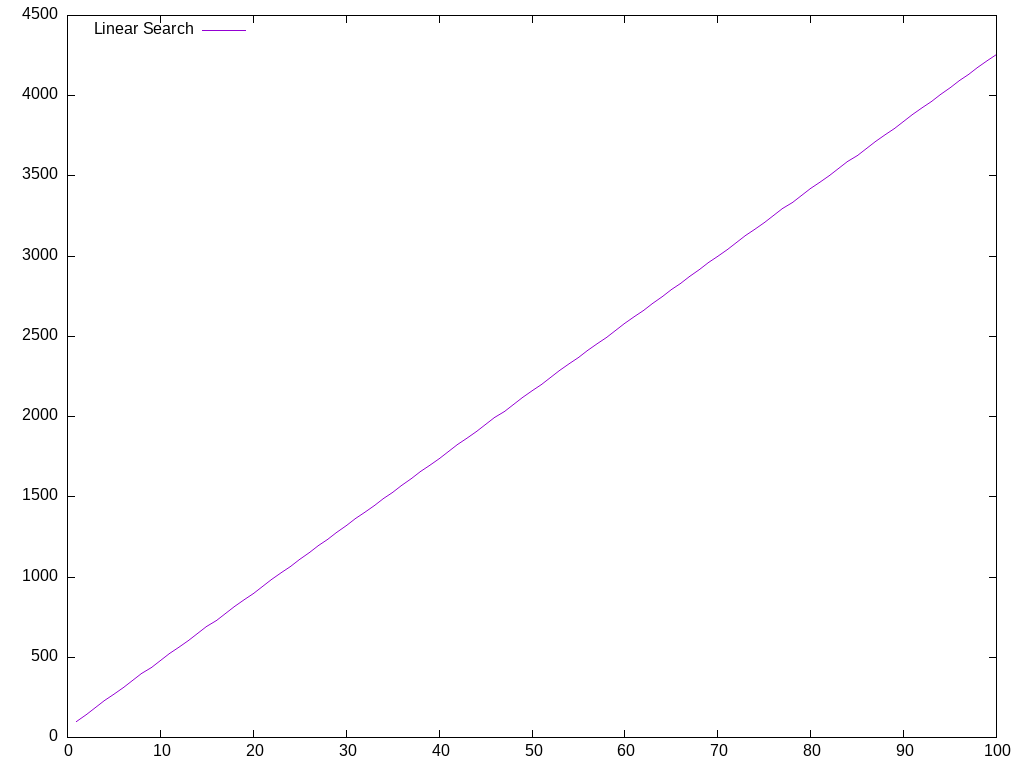
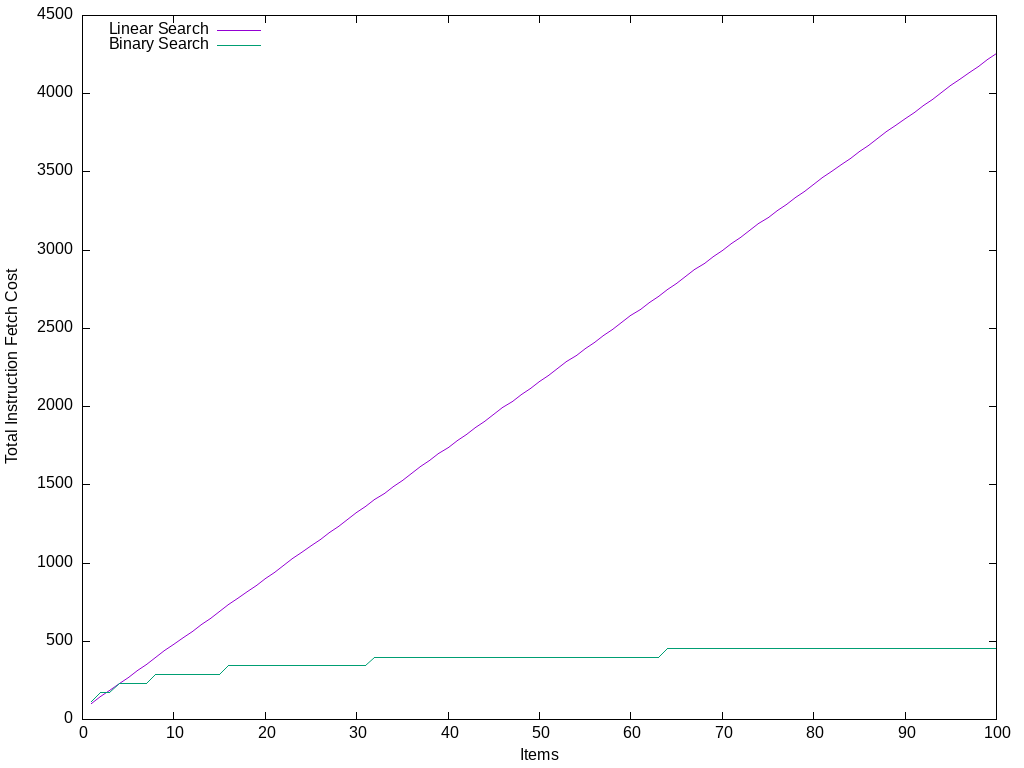
Implement binary search

diff --git a/src/test/unit/binary-search-test.c b/src/test/unit/binary-search-test.c
@@ -1,0 +1,142 @@
+#include "greatest.h"
+
+#include "binary-search.h"
+
+static const int              ITEMS[]              = { 0, 1, 2, 3, 4, 5, 6, 7, 8, 9 };
+static const int *            ITEMS_INVALID        = NULL;
+static const size_t           ITEMS_COUNT          = 10;
+static const int *            ITEM_INVALID         = NULL;
+static const int              ITEM_FOUND           = 3;
+static const int              ITEM_NOT_FOUND       = 10;
+static const size_t           ITEM_SIZE            = sizeof(int);
+static const size_t           ITEM_SIZE_INVALID    = 0;
+static const ordering_compare ITEM_COMPARE_INVALID = NULL;
+
+#pragma GCC diagnostic push
+#pragma GCC diagnostic ignored "-Wpedantic"
+static const int              ITEMS_EMPTY[0]       = { };
+static const size_t           ITEMS_EMPTY_COUNT    = 0;
+#pragma GCC diagnostic pop
+
+#include <stdio.h>
+
+ordering item_compare(const void *item_expected, const void *item_current) {
+    const int *item_expected_int = (const int *)item_expected;
+    const int *item_current_int  = (const int *)item_current;
+
+    printf("%d == %d\n", *item_expected_int, *item_current_int);
+
+    if (*item_expected_int == *item_current_int) {
+        return EQ;
+    }
+
+    if (*item_expected_int > *item_current_int) {
+        return GT;
+    }
+
+    return LT;
+}
+
+TEST binary_search__find____items_is_invalid___status_is_items_invalid_error_and_item_index_is_not_assigned(void) {
+    size_t item_index = ITEM_INDEX_UNDEFINED;
+
+    status status = binary_search__find(ITEMS_INVALID, ITEMS_COUNT, &ITEM_FOUND, ITEM_SIZE, &item_compare, &item_index);
+
+    ASSERT_EQ(ITEMS_INVALID_ERROR, status);
+    ASSERT_EQ(ITEM_INDEX_UNDEFINED, item_index);
+    PASS();
+}
+
+TEST binary_search__find____item_is_invalid___status_is_item_invalid_error_and_item_index_is_not_assigned(void) {
+    size_t item_index = ITEM_INDEX_UNDEFINED;
+
+    status status = binary_search__find(ITEMS, ITEMS_COUNT, ITEM_INVALID, ITEM_SIZE, &item_compare, &item_index);
+
+    ASSERT_EQ(ITEM_INVALID_ERROR, status);
+    ASSERT_EQ(ITEM_INDEX_UNDEFINED, item_index);
+    PASS();
+}
+
+TEST binary_search__find____item_size_is_invalid___status_is_item_size_invalid_error_and_item_index_is_not_assigned(void) {
+    size_t item_index = ITEM_INDEX_UNDEFINED;
+
+    status status = binary_search__find(ITEMS, ITEMS_COUNT, &ITEM_FOUND, ITEM_SIZE_INVALID, &item_compare, &item_index);
+
+    ASSERT_EQ(ITEM_SIZE_INVALID_ERROR, status);
+    ASSERT_EQ(ITEM_INDEX_UNDEFINED, item_index);
+    PASS();
+}
+
+TEST binary_search__find____item_compare_is_invalid___status_is_item_compare_invalid_error_and_item_index_is_not_assigned(void) {
+    size_t item_index = ITEM_INDEX_UNDEFINED;
+
+    status status = binary_search__find(ITEMS, ITEMS_COUNT, &ITEM_FOUND, ITEM_SIZE, ITEM_COMPARE_INVALID, &item_index);
+
+    ASSERT_EQ(ITEM_COMPARE_INVALID_ERROR, status);
+    ASSERT_EQ(ITEM_INDEX_UNDEFINED, item_index);
+    PASS();
+}
+
+TEST binary_search__find____item_index_is_invalid___status_is_item_index_invalid_error_and_item_index_is_not_assigned(void) {
+    size_t *item_index = NULL;
+
+    status status = binary_search__find(ITEMS, ITEMS_COUNT, &ITEM_FOUND, ITEM_SIZE, &item_compare, item_index);
+
+    ASSERT_EQ(ITEM_INDEX_INVALID_ERROR, status);
+    ASSERT_EQ(NULL, item_index);
+    PASS();
+}
+
+TEST binary_search__find____items_is_empty___status_is_item_not_found_error_and_item_index_is_not_assigned(void) {
+    size_t item_index = ITEM_INDEX_UNDEFINED;
+
+    status status = binary_search__find(ITEMS_EMPTY, ITEMS_EMPTY_COUNT, &ITEM_FOUND, ITEM_SIZE, &item_compare, &item_index);
+
+    ASSERT_EQ(ITEM_NOT_FOUND_ERROR, status);
+    ASSERT_EQ(ITEM_INDEX_UNDEFINED, item_index);
+    PASS();
+}
+
+TEST binary_search__find____item_is_found___status_is_success_and_assigns_item_index(void) {
+    for (int i = 0; i < ITEMS_COUNT; i++) {
+        size_t item_index = ITEM_INDEX_UNDEFINED;
+
+        status status = binary_search__find(ITEMS, ITEMS_COUNT, &ITEMS[i], ITEM_SIZE, &item_compare, &item_index);
+
+        ASSERT_EQ(status, SUCCESS);
+        ASSERT_EQ(i, item_index);
+    }
+
+    PASS();
+}
+
+TEST binary_search__find____item_is_not_found___status_is_item_not_found_error_and_item_index_is_not_assigned(void) {
+    size_t item_index = ITEM_INDEX_UNDEFINED;
+
+    status status = binary_search__find(ITEMS, ITEMS_COUNT, &ITEM_NOT_FOUND, ITEM_SIZE, &item_compare, &item_index);
+
+    ASSERT_EQ(ITEM_NOT_FOUND_ERROR, status);
+    ASSERT_EQ(ITEM_INDEX_UNDEFINED, item_index);
+    PASS();
+}
+
+SUITE(binary_search_suite) {
+    RUN_TEST(binary_search__find____items_is_invalid___status_is_items_invalid_error_and_item_index_is_not_assigned);
+    RUN_TEST(binary_search__find____items_is_empty___status_is_item_not_found_error_and_item_index_is_not_assigned);
+    RUN_TEST(binary_search__find____item_is_invalid___status_is_item_invalid_error_and_item_index_is_not_assigned);
+    RUN_TEST(binary_search__find____item_size_is_invalid___status_is_item_size_invalid_error_and_item_index_is_not_assigned);
+    RUN_TEST(binary_search__find____item_compare_is_invalid___status_is_item_compare_invalid_error_and_item_index_is_not_assigned);
+    RUN_TEST(binary_search__find____item_index_is_invalid___status_is_item_index_invalid_error_and_item_index_is_not_assigned);
+    RUN_TEST(binary_search__find____item_is_found___status_is_success_and_assigns_item_index);
+    RUN_TEST(binary_search__find____item_is_not_found___status_is_item_not_found_error_and_item_index_is_not_assigned);
+}
+
+GREATEST_MAIN_DEFS();
+
+int main(int argc, char **argv) {
+    GREATEST_MAIN_BEGIN();
+
+    RUN_SUITE(binary_search_suite);
+
+    GREATEST_MAIN_END();
+}

diff --git a/src/main/binary-search.c b/src/main/binary-search.c
@@ -1,0 +1,67 @@
+#include "binary-search.h"
+
+#include <stddef.h>
+#include <stdint.h>
+#include <stdbool.h>
+
+status binary_search__find(
+    const void *           items,
+    const size_t           items_count,
+    const void *           item,
+    const size_t           item_size,
+    const ordering_compare item_compare,
+    size_t *               item_index
+) {
+    if (items == NULL) {
+        return ITEMS_INVALID_ERROR;
+    }
+
+    if (item == NULL) {
+        return ITEM_INVALID_ERROR;
+    }
+
+    if (item_size == 0) {
+        return ITEM_SIZE_INVALID_ERROR;
+    }
+
+    if (item_compare == NULL) {
+        return ITEM_COMPARE_INVALID_ERROR;
+    }
+
+    if (item_index == NULL) {
+        return ITEM_INDEX_INVALID_ERROR;
+    }
+
+    if (items_count == 0) {
+        return ITEM_NOT_FOUND_ERROR;
+    }
+
+    const uint8_t *items_octets = (const uint8_t *)items;
+
+    size_t item_index_min = 0;
+    size_t item_index_max = items_count - 1;
+
+    while (item_index_min <= item_index_max) {
+        const size_t item_index_mid = item_index_min + ((item_index_max - item_index_min) / 2);
+
+        const void *item_mid = items_octets + item_size * item_index_mid;
+
+        const ordering ordering = item_compare(item, item_mid);
+
+        if (ordering == EQ) {
+            *item_index = item_index_mid;
+
+            return SUCCESS;
+        }
+
+        if (ordering == GT) {
+            item_index_min = item_index_mid + 1;
+        }
+
+        if (ordering == LT) {
+            item_index_max = item_index_mid - 1;
+        }
+    }
+
+    return ITEM_NOT_FOUND_ERROR;
+}

diff --git a/src/test/perf/binary-search-test.c b/src/test/perf/binary-search-test.c
@@ -1,0 +1,50 @@
+#include <stdlib.h>
+#include <valgrind/callgrind.h>
+#include <assert.h>
+
+#include "binary-search.h"
+
+ordering item_compare(const void *item_expected, const void *item_current) {
+    const long int *item_expected_long_int = (const long int *)item_expected;
+    const long int *item_current_long_int  = (const long int *)item_current;
+
+    if (*item_expected_long_int == *item_current_long_int) {
+        return EQ;
+    }
+
+    if (*item_expected_long_int > *item_current_long_int) {
+        return GT;
+    }
+
+    return LT;
+}
+
+int main(__attribute__((unused)) int argc, char **argv) {
+    long int   items_count = strtol(argv[1], NULL, 10);
+    size_t     item_size   = sizeof(long int);
+    long int * items       = malloc(items_count * item_size);
+    long int   item        = items_count - 1;
+    size_t     item_index  = 0;
+
+    for (long int i = 0; i < items_count; i++) {
+        items[i] = i;
+    }
+
+    CALLGRIND_START_INSTRUMENTATION;
+    CALLGRIND_TOGGLE_COLLECT;
+
+    status status = binary_search__find(
+            items,
+            items_count,
+            &item,
+            item_size,
+            &item_compare,
+            &item_index);
+
+    assert(status == SUCCESS);
+
+    CALLGRIND_TOGGLE_COLLECT;
+    CALLGRIND_STOP_INSTRUMENTATION;
+
+    free(items);
+}

diff --git a/src/main/binary-search.h b/src/main/binary-search.h
@@ -1,0 +1,27 @@
+#ifndef _BINARY_SEARCH_
+#define _BINARY_SEARCH_
+
+#include <stdlib.h>
+
+#include "ordering.h"
+#include "status.h"
+
+#define ITEMS_INVALID_ERROR        (ERROR | 0x00000001)
+#define ITEM_INVALID_ERROR         (ERROR | 0x00000002)
+#define ITEM_SIZE_INVALID_ERROR    (ERROR | 0x00000003)
+#define ITEM_COMPARE_INVALID_ERROR (ERROR | 0x00000004)
+#define ITEM_INDEX_INVALID_ERROR   (ERROR | 0x00000005)
+#define ITEM_NOT_FOUND_ERROR       (ERROR | 0x00000006)
+
+#define ITEM_INDEX_UNDEFINED -1
+
+status binary_search__find(
+    const void *           items,
+    const size_t           items_count,
+    const void *           item,
+    const size_t           item_size,
+    const ordering_compare item_compare,
+    size_t *               item_index
+);
+
+#endif // _BINARY_SEARCH_

diff --git a/README.md b/README.md
@@ -1,0 +1,20 @@
+<p align="center">
+    <img src="resource/al-khwarizmi.png" alt="al-Khwarizmi" width= "256" />
+</p>
+
+# al-Khwarizmi
+
+The project's name is a tribute to [Muḥammad ibn Mūsā al-Khwārizmī](https://en.wikipedia.org/wiki/Muhammad_ibn_Musa_al-Khwarizmi), whose name gave rise to the word algorithm.
+Is the code worthy of a tribute? I will let you judge.
+
+This project is an implementation, in C, of the most basic algorithms.
+
+# Costs
+
+<p align="center">
+    <img src="resource/search.png" alt="Search Chart" width="800" />
+</p>
+
+# Credits
+
+By Unknown Author - http://www.muslimheritage.com/topics/default.cfm?ArticleID=631, [1], Public Domain, https://commons.wikimedia.org/w/index.php?curid=2652443
